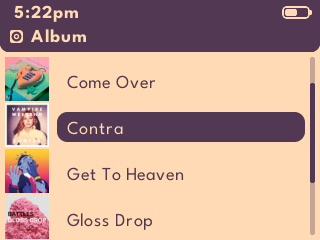
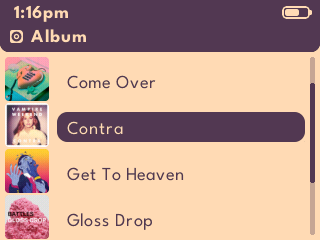
Credit the artwork the screenshots show
The covers in the screenshots are other people's work, so the record names the
artist beside each release. Licence moves up with it, which leaves the two
credit sections together at the end.

Claude-Session: https://claude.ai/code/session_0144TEhJwoqo77Ztb9kgjyzf

diff --git a/README.md b/README.md
@@ -324,7 +324,13 @@ your own version.
 Theme builders: See [`theme-guide.md`](docs/podbox/theme-guide.md) for guidance on creating
 themes for PodBox.
 
-## Credits
+## Licence
+
+RockBox, RockPod and additions by PodBox are licensed under the [GNU General Public License v2.0](https://www.gnu.org/licenses/old-licenses/gpl-2.0.html).
+
+See [`docs/LICENSES`](docs/LICENSES) and [`docs/podbox/LICENSES`](docs/podbox/LICENSES).
+
+## Development credits
 
 This project has been developed with extensive AI assistance. I am a software developer, 
 although C is not my primary language. I have driven the project's architecture, feature 
@@ -341,11 +347,7 @@ Built on the work of:
 - the [RockPod](https://github.com/nuxcodes/rockpod) project (Nux Li: aka [@nuxcodes](https://github.com/nuxcodes))
 - the [Spun](https://github.com/majorsiebe/Stats_for_iPod) project (Siebe Majoor: aka [@majorsiebe](https://github.com/majorsiebe))
 
-## Licence
-
-RockBox, RockPod and additions by PodBox are licensed under the [GNU General Public License v2.0](https://www.gnu.org/licenses/old-licenses/gpl-2.0.html).
-
-See [`docs/LICENSES`](docs/LICENSES) and [`docs/podbox/LICENSES`](docs/podbox/LICENSES).
+## Other credits
 
 ### Spike video
 
@@ -353,3 +355,24 @@ See [`docs/LICENSES`](docs/LICENSES) and [`docs/podbox/LICENSES`](docs/podbox/LI
 - Music provided by NoCopyrightSounds
 - Free Download/Stream: http://ncs.io/Recall
 - Watch: http://ncs.lnk.to/RecallAT/youtube
+
+### Artwork in screenshots
+
+- Angine de Poitrine - Vol.II - [Website](https://anginedepoitrine.com/)
+  - Artwork: Arielle Corbeau - [Website](https://www.instagram.com/ariellecorbeau)
+- Battles - Glass Drop - [Website](https://battles.warp.net/)
+  - Artwork: Lesley Unruh - [Website](http://www.unruhphoto.com)
+- Everything Everything - Get To Heaven - [Website](https://everything-everything.co.uk/)
+  - Artwork: Andrew Archer - [Website](https://www.andrewarcher.com)
+- Kowloon - Come Over - [Website](https://www.kowloonkowloon.com/)
+  - Artwork: Ram Han - [Website](https://www.instagram.com/ram__han/)
+- POLKADOT STINGRAY - 全知全能 - [Website](https://polkadot-stingray.jp/)
+  - Artwork: Shizuku (雫) - [Website](https://www.instagram.com/plkshizuku/)
+- Sabrina Carpenter - Man's Best Friend - [Website](https://www.sabrinacarpenter.com/)
+  - Artwork: Bryce Anderson - [Website](https://www.instagram.com/brvceanderson)
+- Spoon - Hot Thoughts - [Website](http://spoontheband.com/)
+  - Artwork: Christine Messersmith
+- Vampire Weekend - Contra - [Website](http://vampireweekend.com/)
+  - Artwork: Complicated
+
+
